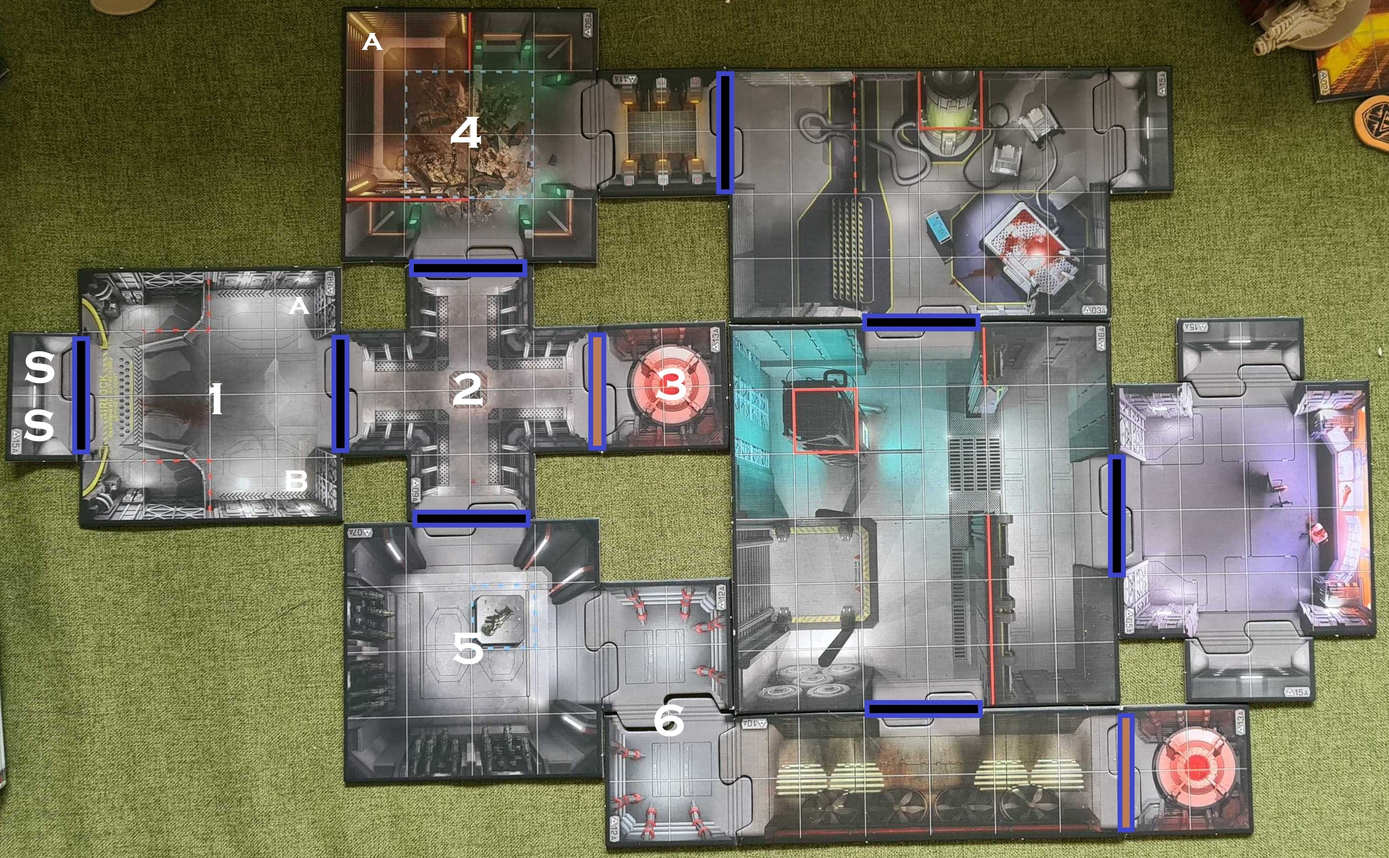
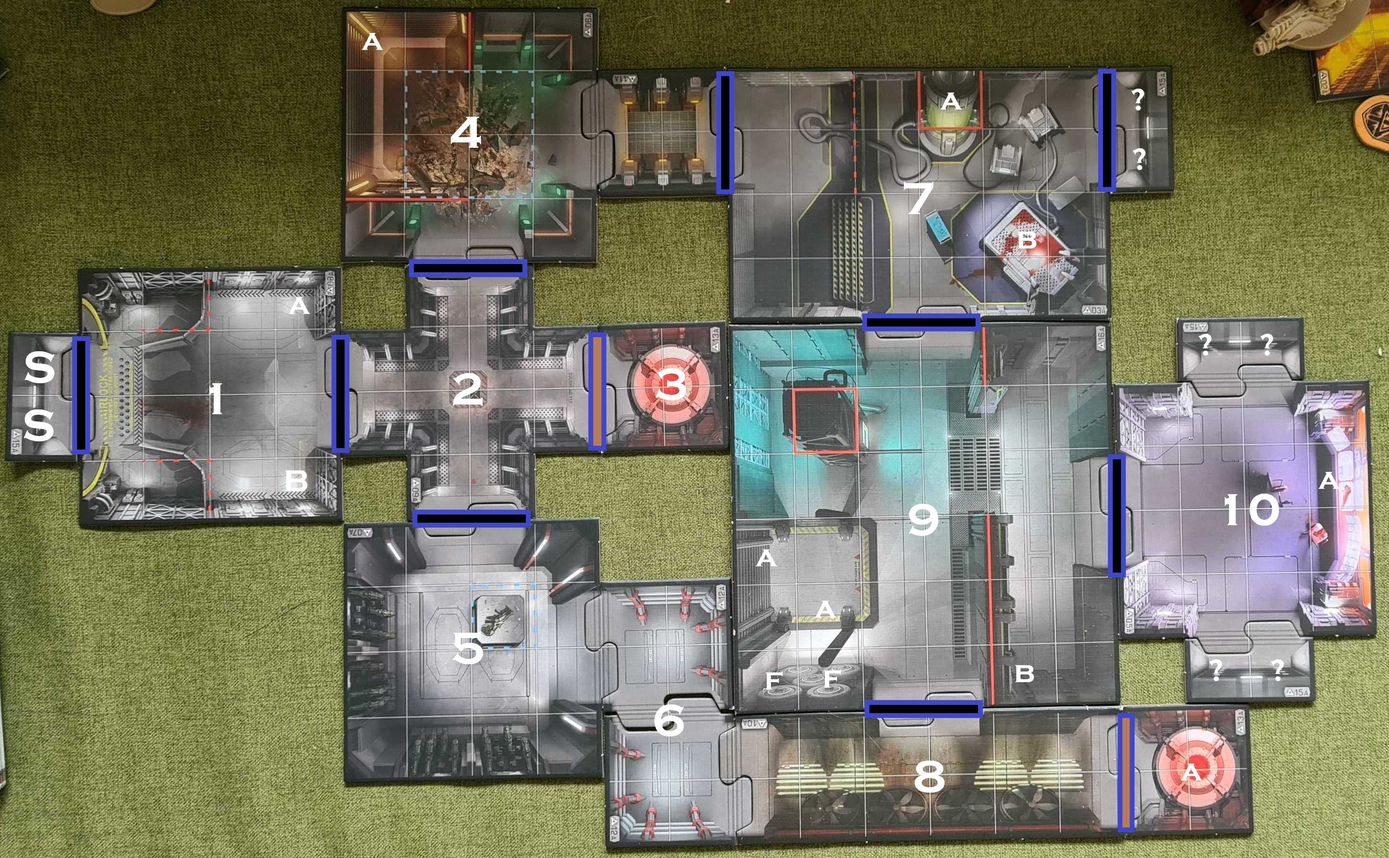
finish mission 1

diff --git a/operation-resurgence/mission-1-containment/README.md b/operation-resurgence/mission-1-containment/README.md
@@ -6,12 +6,20 @@
 
 ## Objectives
 
+### Marines
+
 - Destroy or disable the communication
 - Detain any site personnel
+
+### Demons
+
+- 6 Frags
 
 ## Gear
 
 It is recommended that the Marines start with the Static Rifle, Combat Shotgun, Plasma Rifle and Burst Rifle, with Fire Support and Stealth Operative class cards.
+
+Demons each get 1 argent energy to start and at the end of each round.
 
 ## Layout - not known by the marines
 
@@ -67,3 +75,51 @@ Once per marine and per entry to the ducts the demon player decides if and when 
 
 - Two Imps appear in the ducts
 - The Marine player becomes stunned by electric
+
+## 7. Laboratory
+
+> The lab platform is raised no doubt to accommodate the spaghetti of cables feeding the humming machines and the large stasis pod in which a floating skull can barely be made out through the viscous fluid. On the bloody operating table a creature struggles violently against its restraints.
+
+Place a frag token on the spot marked A to represent the skull demon. Lay an Imp on the spot marked B. Only the Imp can attack/be attacked but add initiative cards for both the Imp and the skull. The demon player can swap the skull for a revenant when they choose:
+
+> The damaged containment field in the holding pens explodes. The power surge shorts out the entire lab and the stasis fluid is instantly evaporated revealing more than just a flayed skull.
+
+Room 4 and the connecting hall is now on fire. Place a threat token to indicate this. Any creature or player in that room or subsequently entering it takes 3 damage.
+
+## 8. Primary Translocation Pod
+
+> This is the hall housing the primary translocation experiment. Heavy fans swing in unison but there is still intense heat in the air. Consoles begin to flicker, generators whir up and an immense discharge of power can be heard behind the defaced door ahead.
+
+A Mancubus is teleported in to the spot marked A. Add its initiative card but only place it when the door is opened either by the Marine or the demon player on their turn.
+
+## 9. Operations
+
+> The operations room was clearly being used to prepare and recover materials for transport. A destroyed service elevator presumably used to access an upper storage level, now just a black hole in the ceiling. From it though floating green eyes begin to descend with ominous intent. On the adjacent wall however, some volatile fuel cells appear to be usefully pointing toward them.
+
+Place 2 Cacodemons in the spots marked A. In the spot marked B a Pinky is lying in wait. Add both their initiative cards as necessary. Place the Pinky only when a Marine gains line of sight.
+
+A Marine can choose to shoot the fuel cells (F). If either cell receives 3 or more damage both cells shoot horizontally to the opposite wall dealing 3 damage to each creature or player in their path.
+
+## 10. Command centre
+
+> It took a swift bypass to access the command centre but once in you see a haggard man in a wheelchair. The terminal he is next to is smashed but your suit identifies the lines feeding power to the system in a panel under the console. He pleads with you to leave it running as its the last thing supplying power to the facility.
+
+Place an objective token on A representing the power lines and one adjacent to it representing the man. A Marine can capture the man and/or sever the power by landing on the respective tokens.
+
+### If the power is severed
+
+> That backup generator was clearly propping up some vital system as moments after the console dies a explosion rocks the laboratory. On failsafe discharge you hear all the doors resetting to an open state and then all manor of commotion funnelling through them into operations.
+
+The Laboratory is now on fire. Place a threat token to indicate this. Any creature or player in that room or subsequently entering it takes 3 damage.
+
+Open all doors. Spawn any demons from the teleporters not already triggered.
+
+Place 2 Cacodemons and 3 Imps in Operations (9) in squares on or adjacent to those marked A.
+
+## End Game
+
+Keep spawning lesser demons each round from the telporters to keep things interesting. As soon as one Marine makes it back to airlock control (1):
+
+> The explosions must have triggered a cave-in. The airlock is completely blocked. I guess thats why they don't normally build facilities in 7 kilometer deep trenches. You doubt there's much time left before the whole thing implodes and the only thing left working is those infernal teleporters. Well they have to go somewhere... right?
+
+Spawn a baron of hell in the Auxillary Translocation Pod (3). Once both Marines reach either teleporter the mission is complete.

diff --git a/operation-resurgence/README.md b/operation-resurgence/README.md
@@ -17,3 +17,5 @@ The game is played out using the 2016 Doom board game components and base rules.
 - The maps should not be revealed to the marines ahead of the game. Unless the obtain explicit intel in the mission brief all items, power ups and the layout itself should only be placed when a marine first gains line of sight to it.
 
 - Unless otherwise stated marines that die respawn the next round in the place they were at the start of the round. Use the teleporter token to make this position at the start of each round.
+
+- The spaces marked `?` contain anything the demon player chooses (that will fit). If the Marines are doing too well add some demons, if they're in bad shape add weapons or med packs.
